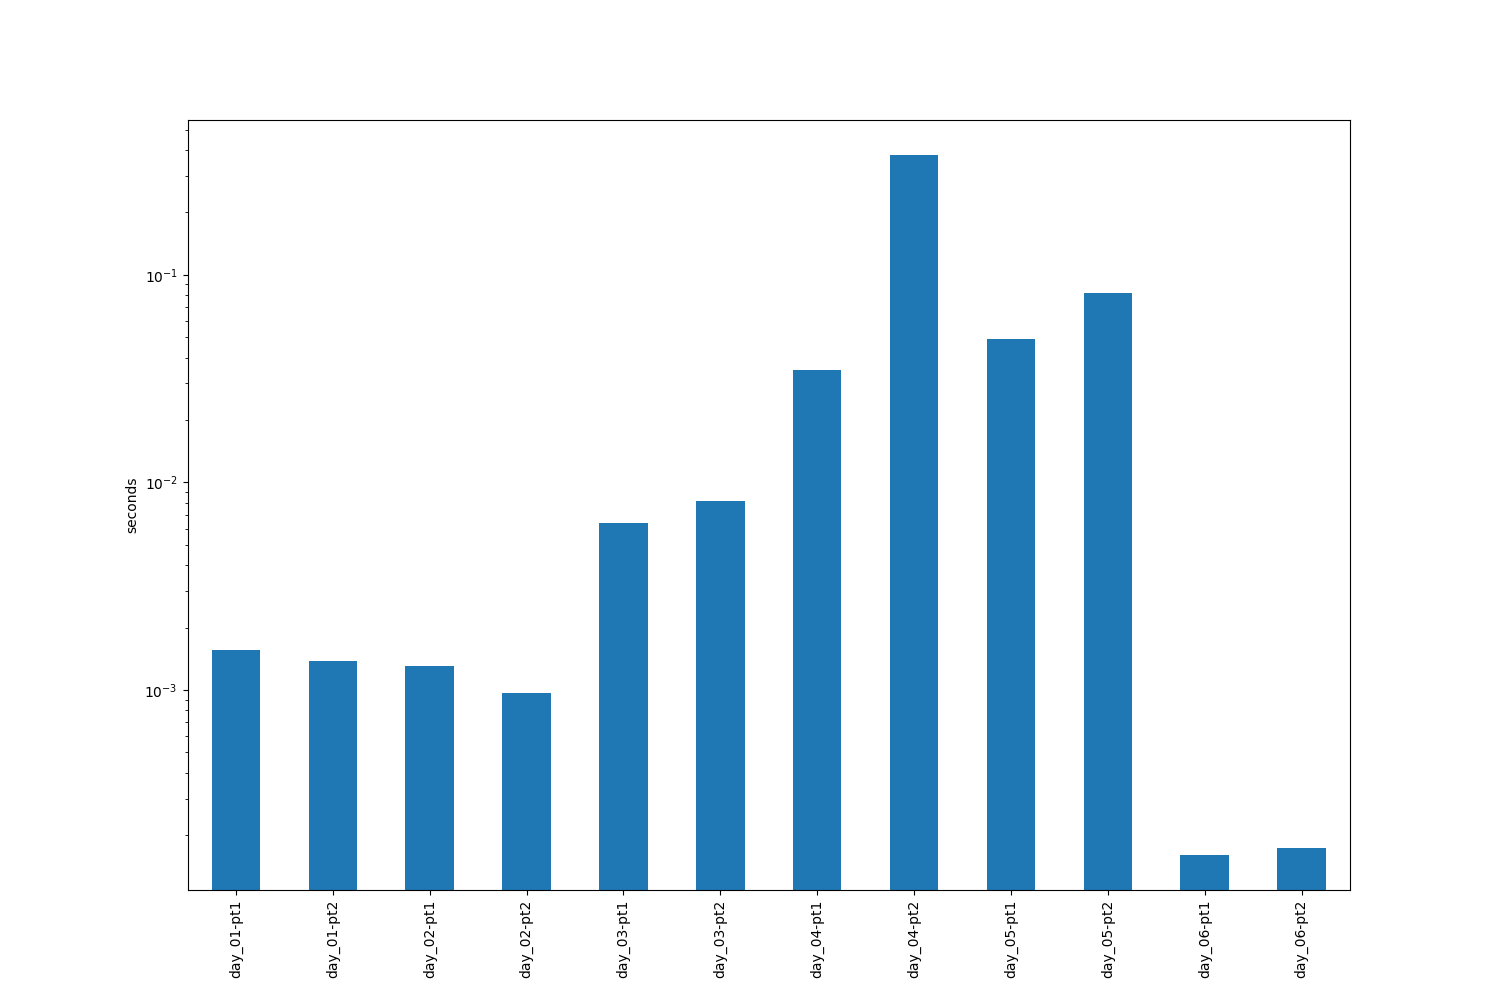
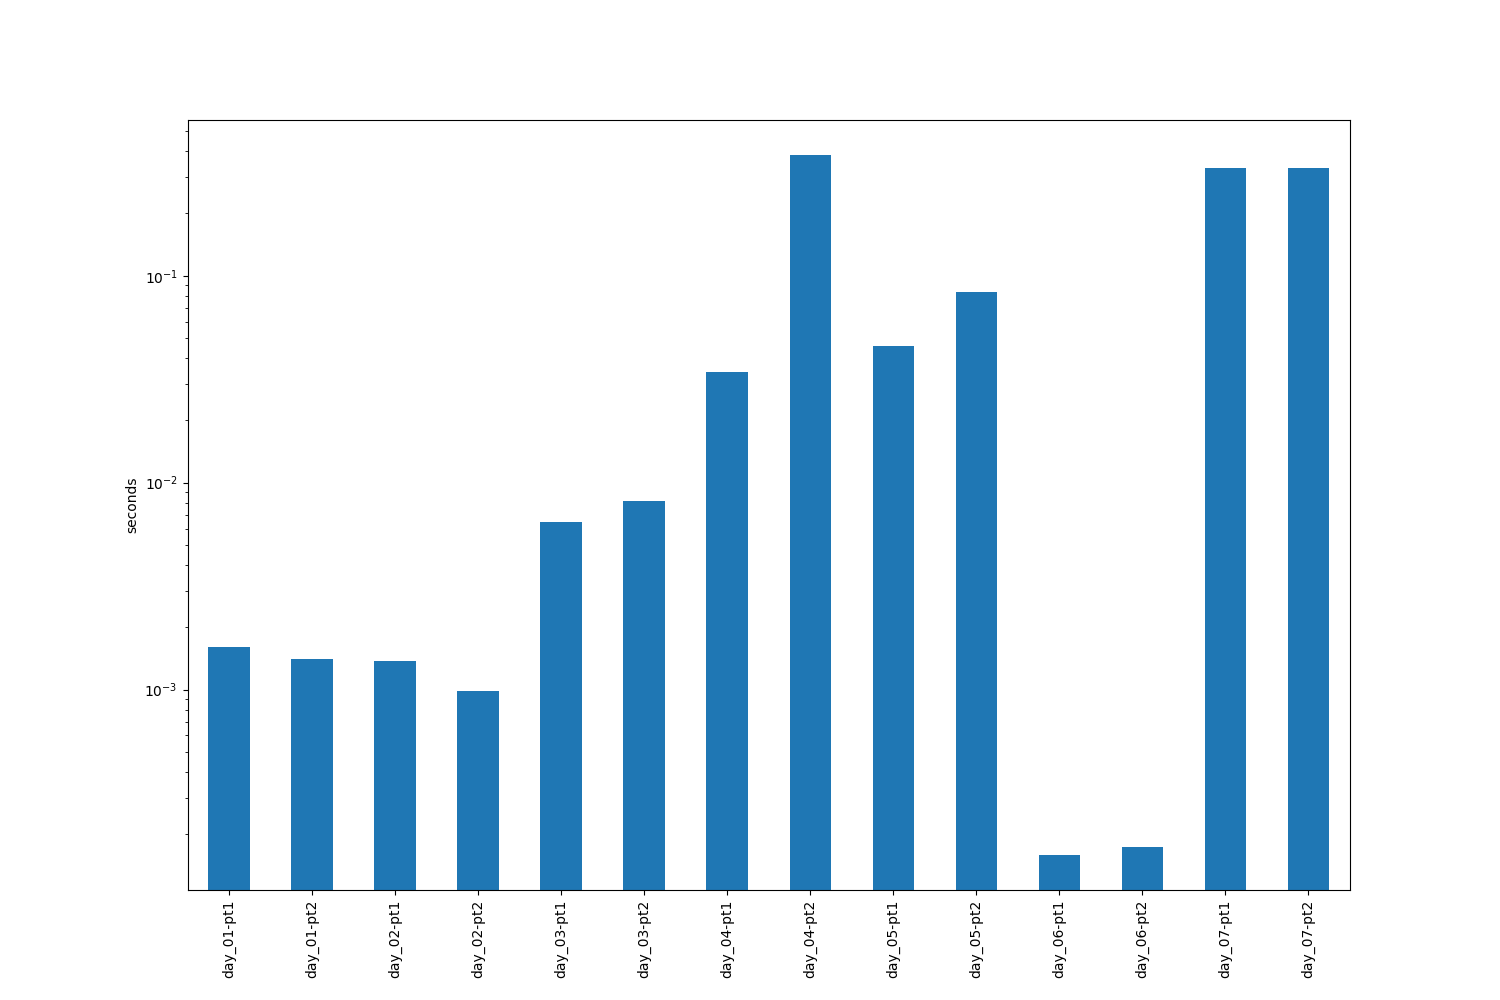
day_07 slow

diff --git a/aoc/day_07.py b/aoc/day_07.py
@@ -1,0 +1,52 @@
+import numpy as np
+
+def part_one(file_path: str):
+    """[summary]
+
+    Args:
+        file_path (str): [description]
+
+    Returns:
+        [type]: [description]
+    """
+
+    # read file
+    with open(file_path) as f:
+        lines = f.readlines()
+
+    positions = [int(i) for i in lines[0].split(",")]
+
+    proposed_positions = np.array([[i for _ in range(len(positions))] for i in range(min(positions), max(positions))])
+
+    positions_array = np.array([positions for _ in range(proposed_positions.shape[0])])
+
+    return int(np.linalg.norm(proposed_positions - positions_array, ord=1, axis=1).min())
+
+def part_two(file_path: str):
+    """[summary]
+
+    Args:
+        file_path (str): [description]
+
+    Returns:
+        [type]: [description]
+    """
+
+    with open(file_path) as f:
+        lines = f.readlines()
+
+    positions = [int(i) for i in lines[0].split(",")]
+
+    proposed_positions = np.array([[i for _ in range(len(positions))] for i in range(min(positions), max(positions))])
+
+    positions_array = np.array([positions for _ in range(proposed_positions.shape[0])])
+
+    difference_array = np.abs(proposed_positions - positions_array)
+
+    cost = np.multiply(difference_array, (difference_array + 1))/2
+
+    return int(cost.sum(axis=1).min())
+
+if __name__ == "__main__":
+    print(part_one("aoc/inputs/day_07.txt"))
+    print(part_two("aoc/inputs/day_07.txt"))

diff --git a/tests/test_day_07.py b/tests/test_day_07.py
@@ -1,0 +1,13 @@
+from aoc.day_07 import part_one, part_two
+
+def test_part_one():
+
+    test_file_path = "tests/test_inputs/test_day_07.txt"
+
+    assert part_one(test_file_path) == 37
+
+def test_part_two():
+
+    test_file_path = "tests/test_inputs/test_day_07.txt"
+
+    assert part_two(test_file_path) == 168
